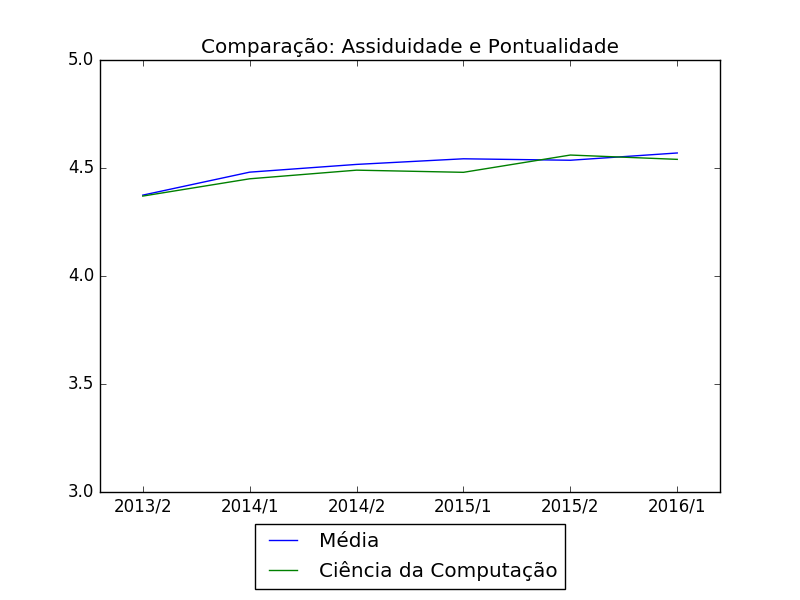
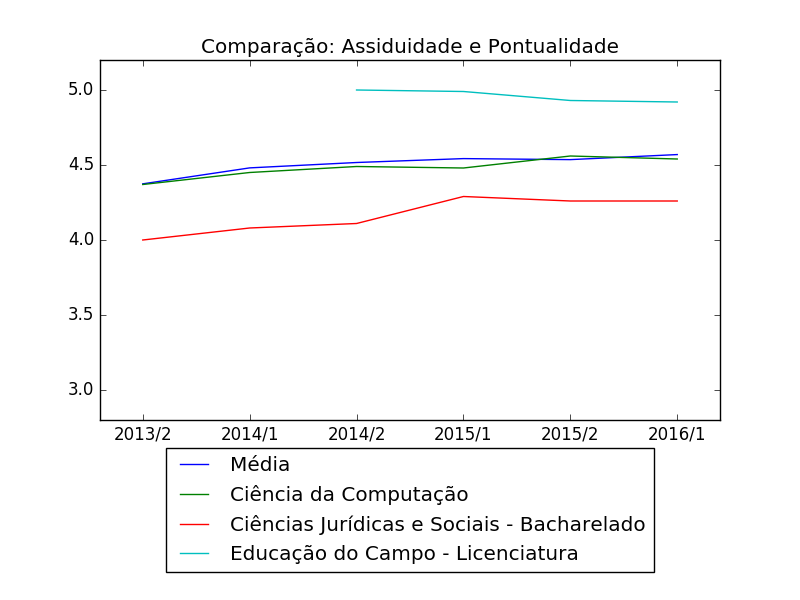
Should also present minimum and maximum scoring
Should keep README sorted.

diff --git a/main.py b/main.py
@@ -1,3 +1,4 @@
+import statistics
 import re
 import time
 import PyPDF2
@@ -33,7 +34,7 @@ class Aggregate():
 
     def update_data(self, indicator: str, period: str, value: float):
         if indicator not in self.data:
-            self.data.update({indicator: {}})
+            self.data.update({indicator: collections.OrderedDict()})
         if period in self.data[indicator]:
             raise ValueError('{} already in {}!'.format(period, indicator))
         self.data[indicator].update({period: value})
@@ -232,10 +233,27 @@ if __name__ == '__main__':
     markdown_code.append(configuration['project_description'])
     markdown_code.append('\n')
     markdown_code.append('\n')
-    for indicator in average.data:
+    for indicator in sorted(average.data):
         plt.title('Comparação' + ': ' + indicator)
         padding = 0.4
-        plt.axis([-padding, len(average.data[indicator].values()) - 1 + padding, 3, 5])
+        plt.axis([-padding, len(average.data[indicator].values()) - 1 + padding, 3 - padding / 2, 5 + padding / 2])
+        # Find the best and worst at this indicator.
+        min_name = ''
+        min_values = [5.0]
+        max_name = ''
+        max_values = [0.0]
+        for aggregate in aggregates.values():
+            if not aggregate.data[indicator]:
+                continue
+            values = [value for value in aggregate.data[indicator].values() if value is not None]
+            if not values:
+                continue
+            if statistics.median(values) < statistics.median(min_values):
+                min_values = values
+                min_name = aggregate.name
+            if statistics.median(values) > statistics.median(max_values):
+                max_values = values
+                max_name = aggregate.name
         labels = []
         average_values = []
         computer_science_values = []
@@ -245,6 +263,11 @@ if __name__ == '__main__':
             computer_science_values.append(computer_science.data[indicator][period])
         plt.plot(average_values, label='Média')
         plt.plot(computer_science_values, label='Ciência da Computação')
+        # Because minimum and maximum may have missing initial values, we have to supply X too.
+        min_x = range(len(computer_science_values) - len(min_values), len(computer_science_values))
+        max_x = range(len(computer_science_values) - len(max_values), len(computer_science_values))
+        plt.plot(min_x, min_values, label=min_name[:min_name.find('(')].strip())
+        plt.plot(max_x, max_values, label=max_name[:max_name.find('(')].strip())
         plt.xticks(range(len(labels)), labels)
         plot_path = configuration['reports_root']
         plot_filename = normalize_name(indicator) + '.png'
@@ -253,7 +276,7 @@ if __name__ == '__main__':
         plt.margins(0.5)
         axis = plt.subplot(111)
         box = axis.get_position()
-        axis.set_position([box.x0, box.y0 + box.height * 0.1, box.width, box.height * 0.9])
+        axis.set_position([box.x0, box.y0 + box.height * 0.25, box.width, box.height * 0.75])
         plt.legend(bbox_to_anchor=(0.5, -0.05), loc='upper center')
         plt.savefig(full_plot_path)
         plt.close()

diff --git a/README.md b/README.md
@@ -1,31 +1,31 @@
 # UFRGS Evaluation Aggregator
 This project aims to aggregate all the scattered numbers the Federal University of Rio Grande do Sul provides about the student evaluation of their courses into human-friendly graphs.
 
-![](./reports/didatica.png)
-
 ![](./reports/assiduidade-e-pontualidade.png)
-
-![](./reports/disponibilidade.png)
 
 ![](./reports/carga-horaria.png)
 
-![](./reports/conhecimentos-previos.png)
-
-![](./reports/uso-de-recursos-e-didatica.png)
-
-![](./reports/respeito-a-diversidade.png)
-
-![](./reports/retorno-das-avaliacoes.png)
-
-![](./reports/cordialidade.png)
-
 ![](./reports/compatibilidade-da-avaliacao.png)
 
-![](./reports/cumprimento-do-plano-de-ensino.png)
+![](./reports/conhecimento.png)
+
+![](./reports/conhecimentos-previos.png)
 
 ![](./reports/contextualizacao.png)
 
 ![](./reports/contribuicao-para-formacao.png)
 
-![](./reports/conhecimento.png)
+![](./reports/cordialidade.png)
+
+![](./reports/cumprimento-do-plano-de-ensino.png)
+
+![](./reports/didatica.png)
+
+![](./reports/disponibilidade.png)
+
+![](./reports/respeito-a-diversidade.png)
+
+![](./reports/retorno-das-avaliacoes.png)
+
+![](./reports/uso-de-recursos-e-didatica.png)
 
